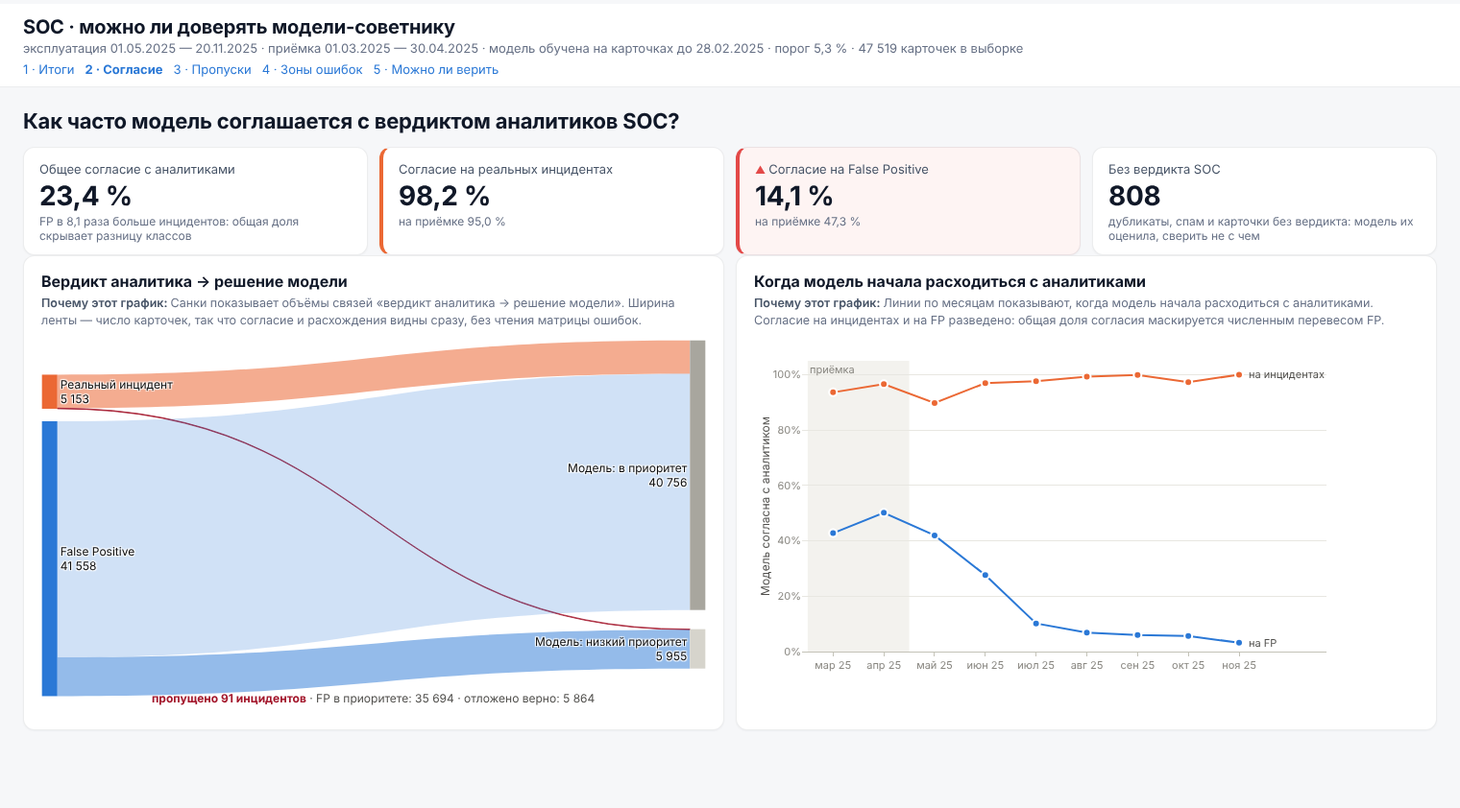
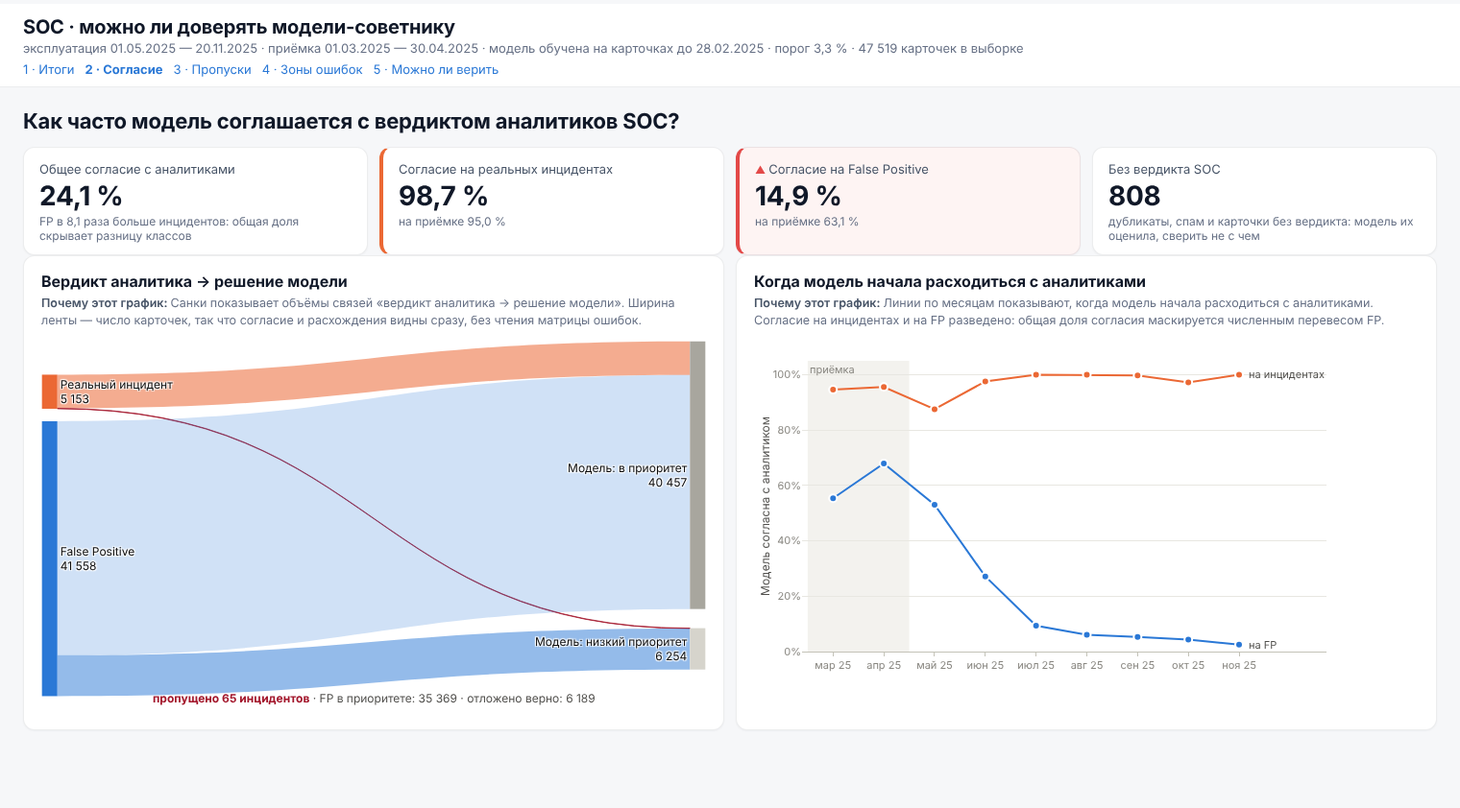
task_2: признаки по словарю iavd_incidents_ml_field_dictionary
- убраны «Теги» и «Описание инцидента» (в словаре «A→C?», риск утечки)
- добавлены поля категории A: SLA, «Количество инцидентов», типы угроз,
  вредоносные команды, число и частота учёток и хостов
- события раньше 12.04.2024 — выбросы; JSON командных строк разбирается
  с управляющими символами
- выводы отчёта о зонах ошибок и калибровке считаются из данных,
  а не зашиты текстом

diff --git a/task_2/report.py b/task_2/report.py
@@ -83,6 +83,20 @@ def build(store: dd.Store, f: dd.Filters | None = None) -> str:
     t_rule = dd.segment_table(oper, "Правило в обучении", "miss")
     new_row = t_rule[t_rule["seg"] == "не было в обучении"]
 
+    def coin(x: float) -> str:
+        return "хуже подбрасывания монетки" if x < 0.5 else ("почти как подбрасывание монетки" if x < 0.6 else "заметно хуже приёмки")
+
+    def zone(by: str, seg: str) -> str:
+        if by == "Правило в обучении":
+            return "правила, которых не было в обучении" if seg.startswith("не было") else f"правила, {seg.replace(':', ' в обучении:')} карточек"
+        if by == "Организация" and seg == "не указана":
+            return "карточки без организации"
+        return f"«{seg}» ({by.lower()})"
+
+    zones = ", ".join(zone(by, r["seg"]) for by, r in sys_rows[:3])
+    new_sys = bool(len(new_row) and new_row["systematic"].iloc[0])
+    cal_ratio = lab["proba"].mean() / lab["y"].mean() if lab["y"].mean() else np.nan
+
     rules = (oper[oper["y"] == 1].groupby("rule")
              .agg(pos=("pred", "size"), fn=("pred", lambda s: int((~s).sum())))
              .query("fn > 0").sort_values("fn", ascending=False).head(3))
@@ -112,9 +126,10 @@ def build(store: dd.Store, f: dd.Filters | None = None) -> str:
         + (f"{dd.month_since(first_jump).capitalize()} доля реальных инцидентов выросла с {dd.fmt_pct(cv.pos / cv.n)} на приёмке "
            f"до {dd.fmt_pct(jump['inc_rate'].max())}; " if first_jump is not None else "")
         + f"качество ранжирования (AUC) упало с {dd.fmt_num(av, 2)} до {dd.fmt_num(a, 2)}, "
-          f"а {dd.month_in(worst['month'])} — до {dd.fmt_num(worst['auc'], 2)}: хуже подбрасывания монетки.",
-        f"- **Ошибки не случайны.** Пропуски сосредоточены в правилах, которых в обучении было мало, в подборе паролей "
-        f"и в авторизации; {near} из {n_miss} {dd.plural(n_miss, ('пропуска', 'пропусков', 'пропусков'))} лежат у самого порога.",
+          f"а {dd.month_in(worst['month'])} — до {dd.fmt_num(worst['auc'], 2)}: {coin(worst['auc'])}.",
+        (f"- **Ошибки не случайны.** Пропуски сосредоточены в срезах: {zones}; " if sys_rows else
+         "- **Ошибки выглядят случайными:** ни один срез не выходит за случайный разброс; ")
+        + f"{near} из {n_miss} {dd.plural(n_miss, ('пропуска', 'пропусков', 'пропусков'))} лежат у самого порога.",
         "- **Вердикт:** модели можно доверять как страховке «не потерять инцидент» при ежемесячном контроле доли пропусков; "
         "как инструменту сокращения ручной работы в текущем виде — нельзя: её нужно переобучить на свежих месяцах "
         "и заново выбрать порог.",
@@ -140,7 +155,8 @@ def build(store: dd.Store, f: dd.Filters | None = None) -> str:
         "",
         f"*Линии по месяцам.* Согласие на FP падает с {dd.fmt_pct(mo['spec'].iloc[0], 0)} {dd.month_in(mo['month'].iloc[0])} "
         f"до {dd.fmt_pct(mo['spec'].iloc[-1], 0)} {dd.month_in(mo['month'].iloc[-1])}; согласие на инцидентах всё это время "
-        f"держится у {dd.fmt_pct(mo['recall'].median(), 0)}.",
+        f"держится в диапазоне {dd.fmt_num(mo['recall'].min() * 100, 0)}–{dd.fmt_pct(mo['recall'].max(), 0)}: "
+        "модель «соглашается» с инцидентами, потому что почти всё отправляет в приоритет.",
         "",
         "## 3. Сколько реальных инцидентов модель пропускает?",
         "",
@@ -163,10 +179,12 @@ def build(store: dd.Store, f: dd.Filters | None = None) -> str:
         "",
         *[f"- {by} — «{r['seg']}»: {int(r['fn'])} из {int(r['n'])} ({dd.fmt_pct(r['rate'], 0)})" for by, r in sys_rows[:6]],
         "",
-        (f"Правила, которых модель не видела вовсе, дают {dd.fmt_pct(len(seen0) / len(lab), 0)} карточек, но пропусков на них "
-         f"{dd.fmt_pct(float(new_row['rate'].iloc[0]))} — в пределах случайности: модель отправляет такие карточки в приоритет. "
-         if len(new_row) and len(lab) else "")
-        + "Опасная зона — правила, которых в обучении было немного: модель успела «выучить», что они обычно ложные.",
+        (f"Правила, которых модель не видела вовсе, дают {dd.fmt_pct(len(seen0) / len(lab), 0)} карточек и "
+         f"{dd.fmt_pct(float(new_row['rate'].iloc[0]))} пропусков — "
+         + ("это систематическая зона: о новом правиле модели нечего сказать, и она опирается на остальные поля, "
+            "которые у безобидных карточек выглядят так же." if new_sys else
+            "в пределах случайности: такие карточки модель чаще отправляет в приоритет.")
+         if len(new_row) and len(lab) else ""),
         "",
         f"*Гистограмма оценок.* {near} из {n_miss} {dd.plural(n_miss, ('пропуска', 'пропусков', 'пропусков'))} получили оценку "
         f"не ниже половины порога ({dd.fmt_pct(thr / 2)}): это «почти пойманные» инциденты, их возвращает более низкий порог "
@@ -176,7 +194,8 @@ def build(store: dd.Store, f: dd.Filters | None = None) -> str:
         "## 5. Можно ли верить оценке модели и не устарела ли она?",
         "",
         f"*Калибровка.* В эксплуатации модель в среднем пишет {dd.fmt_pct(lab['proba'].mean())}, а реальных инцидентов "
-        f"{dd.fmt_pct(lab['y'].mean())} — оценку нельзя читать как вероятность, только как порядок в очереди.",
+        f"{dd.fmt_pct(lab['y'].mean())}, то есть завышает в {dd.fmt_num(cal_ratio, 1)} раза. Точки по группам отходят "
+        "от диагонали, поэтому оценку надёжнее читать как порядок в очереди, а не как точную вероятность.",
         "",
         f"*Гантели.* Между приёмкой и эксплуатацией сильнее всего изменились разгрузка очереди "
         f"({dd.fmt_pct(cv.low_share, 0)} → {dd.fmt_pct(c.low_share, 0)}) и согласие на FP "
@@ -192,7 +211,8 @@ def build(store: dd.Store, f: dd.Filters | None = None) -> str:
         f"1. Переобучить модель на последних месяцах ({dd.month_since(first_jump) if first_jump is not None else 'после смены потока'}) "
         "и выбрать порог заново на свежей приёмке.",
         f"2. Каждый месяц смотреть страницу «Пропуски»: сигнал — интервал доли пропусков целиком выше {dd.fmt_pct(target, 0)}.",
-        "3. Карточки подбора паролей, авторизации и правил, редких в обучении, разбирать без учёта приоритета модели.",
+        (f"3. Карточки из зон систематических пропусков ({zones}) разбирать без учёта приоритета модели." if sys_rows
+         else "3. Зон систематических пропусков нет — достаточно ежемесячного контроля."),
         f"4. Выяснить, что изменилось в потоке {dd.month_in(first_jump) if first_jump is not None else ''} "
         "(новые правила, перенастройка SIEM, изменение правил вердикта).",
         "",

diff --git a/task_2/REPORT.md b/task_2/REPORT.md
@@ -1,63 +1,63 @@
 # SOC · можно ли доверять модели-советнику: отчёт к дашборду
 
-Модель (градиентный бустинг) обучена на карточках до **28.02.2025**. Порог выбран на приёмке (01.03.2025 — 30.04.2025) так, чтобы модель находила **не меньше 95 %** реальных инцидентов: оценка ≥ 5,3 % — карточка в приоритет, ниже — в низкий приоритет. Эксплуатация — **01.05.2025 — 20.11.2025**: модель с этим порогом оценила 47 519 карточек, 46 711 из них аналитики закрыли вердиктом «Решён» или «False Positive» — по ним и сверяем.
+Модель (градиентный бустинг) обучена на карточках до **28.02.2025**. Порог выбран на приёмке (01.03.2025 — 30.04.2025) так, чтобы модель находила **не меньше 95 %** реальных инцидентов: оценка ≥ 3,3 % — карточка в приоритет, ниже — в низкий приоритет. Эксплуатация — **01.05.2025 — 20.11.2025**: модель с этим порогом оценила 47 519 карточек, 46 711 из них аналитики закрыли вердиктом «Решён» или «False Positive» — по ним и сверяем.
 
 Отчёт собран скриптом `report.py` 14.11.2026. Числа совпадают с плитками дашборда при фильтрах по умолчанию.
 
 ## Коротко для руководителя SOC
 
-- **Инциденты модель почти не теряет.** Пропущено 91 из 5 153 реальных инцидентов — 1,8 % (95 %-ный интервал 1,4 % — 2,2 %) при цели не больше 5 %. Цель нарушена только в мае 2025.
-- **Но разгружать очередь модель перестала.** На приёмке она откладывала 46 % карточек, в эксплуатации — 13 %, а в последние три месяца — 3–5 %. Высокая доля найденных инцидентов во многом объясняется тем, что почти всё идёт в приоритет.
-- **Поток изменился, модель устарела.** С июля 2025 доля реальных инцидентов выросла с 3,4 % на приёмке до 17,5 %; качество ранжирования (AUC) упало с 0,92 до 0,74, а в июле 2025 — до 0,44: хуже подбрасывания монетки.
-- **Ошибки не случайны.** Пропуски сосредоточены в правилах, которых в обучении было мало, в подборе паролей и в авторизации; 84 из 91 пропуска лежат у самого порога.
+- **Инциденты модель почти не теряет.** Пропущено 65 из 5 153 реальных инцидентов — 1,3 % (95 %-ный интервал 1,0 % — 1,6 %) при цели не больше 5 %. Цель нарушена только в мае 2025.
+- **Но разгружать очередь модель перестала.** На приёмке она откладывала 61 % карточек, в эксплуатации — 13 %, а в последние три месяца — 2–5 %. Высокая доля найденных инцидентов во многом объясняется тем, что почти всё идёт в приоритет.
+- **Поток изменился, модель устарела.** С июля 2025 доля реальных инцидентов выросла с 3,4 % на приёмке до 17,5 %; качество ранжирования (AUC) упало с 0,95 до 0,78, а в июле 2025 — до 0,53: почти как подбрасывание монетки.
+- **Ошибки не случайны.** Пропуски сосредоточены в срезах: «Подозрительный процесс» (тип инцидента), «Выполнение подозрительной команды» (тип инцидента), карточки без организации; 47 из 65 пропусков лежат у самого порога.
 - **Вердикт:** модели можно доверять как страховке «не потерять инцидент» при ежемесячном контроле доли пропусков; как инструменту сокращения ручной работы в текущем виде — нельзя: её нужно переобучить на свежих месяцах и заново выбрать порог.
 
 ## 1. Что модель дала SOC за период эксплуатации?
 
-*Каскадная диаграмма.* Из 46 711 карточек с вердиктом модель отложила 5 955 (12,7 %): 5 864 верно (False Positive) и 91 ошибочно (реальные инциденты). В приоритете осталось 40 756 карточек, и инцидентом в них оказывается каждая 8-я (12,4 %).
+*Каскадная диаграмма.* Из 46 711 карточек с вердиктом модель отложила 6 254 (13,4 %): 6 189 верно (False Positive) и 65 ошибочно (реальные инциденты). В приоритете осталось 40 457 карточек, и инцидентом в них оказывается каждая 8-я (12,6 %).
 
-*Кривая поиска.* Если разбирать очередь сверху вниз по оценке модели, первые 20 % карточек содержат 62 % реальных инцидентов в эксплуатации против 87 % на приёмке (без модели — 20 %). Сортировка всё ещё полезна, но заметно слабее, чем обещала приёмка.
+*Кривая поиска.* Если разбирать очередь сверху вниз по оценке модели, первые 20 % карточек содержат 62 % реальных инцидентов в эксплуатации против 91 % на приёмке (без модели — 20 %). Сортировка всё ещё полезна, но заметно слабее, чем обещала приёмка.
 
 ## 2. Как часто модель соглашается с вердиктом аналитиков?
 
-*Санки.* Общее согласие — 23,4 %, но это число вводит в заблуждение: False Positive в 8,1 раза больше, чем инцидентов. На реальных инцидентах модель согласна с аналитиком в 98,2 % случаев, на False Positive — только в 14,1 % (на приёмке 47,3 %). Ещё 808 карточек без вердикта (дубликаты, спам, открытые) сверить не с чем.
+*Санки.* Общее согласие — 24,1 %, но это число вводит в заблуждение: False Positive в 8,1 раза больше, чем инцидентов. На реальных инцидентах модель согласна с аналитиком в 98,7 % случаев, на False Positive — только в 14,9 % (на приёмке 63,1 %). Ещё 808 карточек без вердикта (дубликаты, спам, открытые) сверить не с чем.
 
-*Линии по месяцам.* Согласие на FP падает с 42 % в мае 2025 до 3 % в ноябре 2025; согласие на инцидентах всё это время держится у 98 %.
+*Линии по месяцам.* Согласие на FP падает с 53 % в мае 2025 до 3 % в ноябре 2025; согласие на инцидентах всё это время держится в диапазоне 88–100 %: модель «соглашается» с инцидентами, потому что почти всё отправляет в приоритет.
 
 ## 3. Сколько реальных инцидентов модель пропускает?
 
-*Точки с интервалами по месяцам.* В мае 2025 пропущено 27 из 264 (10,2 %, интервал 7,1 % — 14,5 %) — хуже цели даже с учётом случайности. Дальше доля пропусков не превышает 3,0 %. Из 91 пропуска 15 — высокой или критической критичности, остальные — средней и низкой.
+*Точки с интервалами по месяцам.* В мае 2025 пропущено 33 из 264 (12,5 %, интервал 9,0 % — 17,0 %) — хуже цели даже с учётом случайности. Дальше доля пропусков не превышает 2,8 %. Из 65 пропусков 14 — высокой или критической критичности, остальные — средней и низкой.
 
-*Правила с пропусками.* `Nad_Possible_Scan_Activity` — 19 из 1 567 (1 %); `TTS_33_Distributed_Bruteforce_Attempt` — 15 из 41 (37 %); `MTE_T1036.005_Masquerading.Match_Legitimate_Name_or_Location` — 9 из 17 (53 %). Подпись «N из M» отделяет правила, где пропусков много из-за объёма, от правил, где модель ошибается часто.
+*Правила с пропусками.* `MTE_T1036.005_Masquerading.Match_Legitimate_Name_or_Location` — 9 из 17 (53 %); `MTE_T1543.003_Create_Or_Modify_System_Process.Windows_Service` — 7 из 20 (35 %); `MTE_T1053.005_Scheduled_Task_Job.Scheduled_Task` — 6 из 16 (38 %). Подпись «N из M» отделяет правила, где пропусков много из-за объёма, от правил, где модель ошибается часто.
 
 ## 4. Модель ошибается случайно или систематически?
 
-*Точечная диаграмма срезов.* Систематически — то есть с интервалом целиком выше средних 1,8 % — модель пропускает инциденты в срезах:
+*Точечная диаграмма срезов.* Систематически — то есть с интервалом целиком выше средних 1,3 % — модель пропускает инциденты в срезах:
 
-- Тип инцидента — «Подбор пароля для одной УЗ на нескольких хостах»: 15 из 41 (37 %)
 - Тип инцидента — «Подозрительный процесс»: 9 из 24 (38 %)
-- Категория IRP — «Авторизация и аутентификация»: 16 из 51 (31 %)
-- Правило в обучении — «редкое: 1–99»: 24 из 113 (21 %)
-- Тип инцидента — «Выполнение подозрительной команды»: 18 из 117 (15 %)
-- Организация — «не указана»: 37 из 373 (10 %)
+- Тип инцидента — «Выполнение подозрительной команды»: 20 из 117 (17 %)
+- Организация — «не указана»: 46 из 373 (12 %)
+- Категория IRP — «Подозрительная активность»: 31 из 277 (11 %)
+- Правило в обучении — «редкое: 1–99»: 8 из 113 (7 %)
+- Правило в обучении — «не было в обучении»: 10 из 168 (6 %)
 
-Правила, которых модель не видела вовсе, дают 13 % карточек, но пропусков на них 3,0 % — в пределах случайности: модель отправляет такие карточки в приоритет. Опасная зона — правила, которых в обучении было немного: модель успела «выучить», что они обычно ложные.
+Правила, которых модель не видела вовсе, дают 13 % карточек и 6,0 % пропусков — это систематическая зона: о новом правиле модели нечего сказать, и она опирается на остальные поля, которые у безобидных карточек выглядят так же.
 
-*Гистограмма оценок.* 84 из 91 пропуска получили оценку не ниже половины порога (2,6 %): это «почти пойманные» инциденты, их возвращает более низкий порог (политика «Находить 99 %» на дашборде). С оценкой ниже половины порога — 7: это слепые пятна, которые сдвигом порога не лечатся.
+*Гистограмма оценок.* 47 из 65 пропусков получили оценку не ниже половины порога (1,7 %): это «почти пойманные» инциденты, их возвращает более низкий порог (политика «Находить 99 %» на дашборде). С оценкой ниже половины порога — 18: это слепые пятна, которые сдвигом порога не лечатся.
 
 ## 5. Можно ли верить оценке модели и не устарела ли она?
 
-*Калибровка.* В эксплуатации модель в среднем пишет 21,5 %, а реальных инцидентов 11,0 % — оценку нельзя читать как вероятность, только как порядок в очереди.
+*Калибровка.* В эксплуатации модель в среднем пишет 15,4 %, а реальных инцидентов 11,0 %, то есть завышает в 1,4 раза. Точки по группам отходят от диагонали, поэтому оценку надёжнее читать как порядок в очереди, а не как точную вероятность.
 
-*Гантели.* Между приёмкой и эксплуатацией сильнее всего изменились разгрузка очереди (46 % → 13 %) и согласие на FP (47 % → 14 %).
+*Гантели.* Между приёмкой и эксплуатацией сильнее всего изменились разгрузка очереди (61 % → 13 %) и согласие на FP (63 % → 15 %).
 
-*Три панели по месяцам.* Провал ранжирования совпадает со скачком доли реальных инцидентов: в июле 2025 AUC 0,44 при доле инцидентов 17,5 %. К концу периода AUC вернулся к 0,85, но разгрузка очереди — нет: оценки модели сдвинулись вверх, и порог приёмки перестал отделять FP. Это аргумент за регулярную перенастройку порога и переобучение.
+*Три панели по месяцам.* Провал ранжирования совпадает со скачком доли реальных инцидентов: в июле 2025 AUC 0,53 при доле инцидентов 17,5 %. К концу периода AUC вернулся к 0,85, но разгрузка очереди — нет: оценки модели сдвинулись вверх, и порог приёмки перестал отделять FP. Это аргумент за регулярную перенастройку порога и переобучение.
 
 ## Что предлагаем
 
 1. Переобучить модель на последних месяцах (с июля 2025) и выбрать порог заново на свежей приёмке.
 2. Каждый месяц смотреть страницу «Пропуски»: сигнал — интервал доли пропусков целиком выше 5 %.
-3. Карточки подбора паролей, авторизации и правил, редких в обучении, разбирать без учёта приоритета модели.
+3. Карточки из зон систематических пропусков («Подозрительный процесс» (тип инцидента), «Выполнение подозрительной команды» (тип инцидента), карточки без организации) разбирать без учёта приоритета модели.
 4. Выяснить, что изменилось в потоке в июле 2025 (новые правила, перенастройка SIEM, изменение правил вердикта).
 
 ## Почему выбран каждый график

diff --git a/task_2/README.md b/task_2/README.md
@@ -19,7 +19,7 @@
 | Эксплуатация | 01.05.2025 — 20.11.2025 | модель с этим порогом оценивает 47 519 карточек, её решения сверяются с вердиктами SOC |
 
 - **Реальный инцидент** — вердикт «Решён», **False Positive** — вердикт «False Positive». Дубликаты, спам и карточки без вердикта модель оценивает, но в метрики они не входят.
-- **Признаки** — только то, что известно при создании карточки: правило SIEM, критичность, категория IRP, организация, поля события, командная строка. Решение, комментарии, принятые меры и времена обработки в модель не идут, иначе это утечка ответа.
+- **Признаки** — только поля категории A из словаря `iavd_incidents_ml_field_dictionary.md`, то есть известные при создании карточки: правило SIEM, критичность и SLA, категория IRP, организация, поля события, учётки и хосты (число и частота в обучении), командная строка. Поля категории C (решение, комментарии, принятые меры, флаги процесса, времена обработки) — утечка ответа. «Теги» и «Описание инцидента» словарь помечает «A→C?», их тоже нет. События раньше 12.04.2024 считаются выбросами.
 - **Модель** — `HistGradientBoostingClassifier` из scikit-learn с нативными категориальными признаками.
 - **Порог** = «низкий приоритет». Оценка ниже порога — модель считает карточку ложной и откладывает её. Реальный инцидент в низком приоритете — **пропуск**.
 
